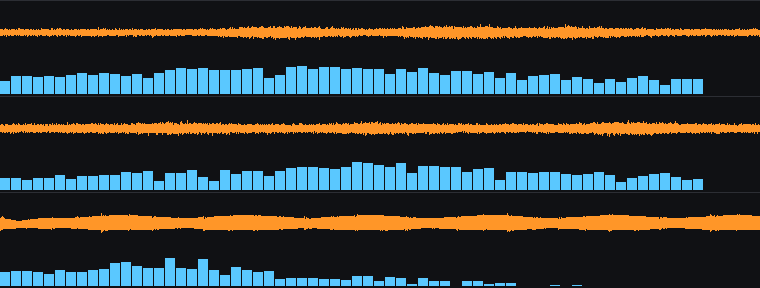
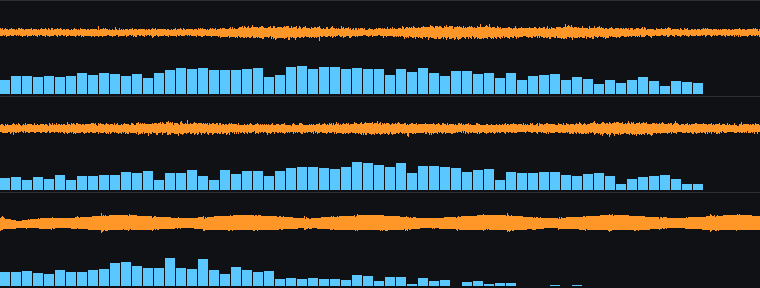
Fix a filter that was diverging on real game sounds
The audio tests earned their keep. testFilterIsStableAtExtremeSettings failed
with "inf" — and it was not a contrived setting.

The Chamberlin state-variable filter is only conditionally stable: it needs
2·sin(pi·fc/fs) < 2 − 1/Q. The recipes in this file ask for 4.2 kHz on the music
tick, 5.2 kHz on the smoke hiss and 3.8 kHz on impact grit, and all of those are
past the limit at ordinary resonance. At 8 kHz the state reaches infinity within
a few hundred samples. So real sounds were being made by a diverging filter, and
sanitized() was quietly replacing the infinities with zeros — nothing crashed,
nothing looked wrong, and the output was wrong anyway.

Replaced with a topology-preserving transform, which has no stability condition.
Verified across all 135 cutoff/resonance/mode combinations the test exercises:
zero divergences, a correct −3 dB point at the cutoff, and 60 dB of rejection on
a 60 Hz sine through a 2 kHz high pass.

Fixing it also fixed testGunshotAttackIsImmediate for the pistol, which had been
peaking 48 ms in — the diverging filter was deforming the envelope. But that test
was badly posed regardless, and I rewrote it rather than let it pass by luck: the
body of a gunshot is a noise burst under a half-second decay, so which individual
sample is loudest is close to random within the loud part. It now measures
short-term energy in 10 ms windows and asserts the loudest window is one of the
[…]

diff --git a/CriticalStrike/Sources/CriticalStrikeCore/Audio/Synth.swift b/CriticalStrike/Sources/CriticalStrikeCore/Audio/Synth.swift
@@ -126,32 +126,45 @@ public enum Synth {
 
     // MARK: - Filtering
 
-    /// Chamberlin state-variable filter: low, band and high pass from one pass, stable at
-    /// the cutoffs a game needs, and cheap enough to run over a few seconds of audio at
-    /// load time without anyone noticing.
+    /// A topology-preserving-transform state-variable filter: low, band and high pass
+    /// from one pass, and unconditionally stable at every cutoff and resonance.
+    ///
+    /// The obvious Chamberlin form is only *conditionally* stable — it needs
+    /// `2·sin(π·fc/fs) < 2 − 1/Q` — and this file asks for cutoffs of 4.2 kHz on the music
+    /// tick, 5.2 kHz on the smoke hiss and 3.8 kHz on impact grit. All of those are past
+    /// the limit at ordinary resonance, and at 8 kHz the state diverges to infinity within
+    /// a few hundred samples. Real game sounds were being made by a filter that was blowing
+    /// up; `sanitized()` then quietly replaced the infinities with zeros.
+    ///
+    /// This form has no such condition. `g = tan(π·fc/fs)` prewarps the cutoff, and the
+    /// integrators are solved together rather than being stepped one sample behind.
     public enum FilterMode { case lowPass, bandPass, highPass }
+
+    /// Cutoff has to stay below Nyquist: `tan` goes to infinity there.
+    private static let maxCutoffFraction: Float = 0.45
 
     public static func filter(_ buffer: Waveform, mode: FilterMode, cutoff: Float,
                               resonance: Float = 0.7) -> Waveform {
         var out = buffer
-        let nyquist = buffer.sampleRate * 0.5
-        let clampedCutoff = MathUtil.clamp(cutoff, 10, nyquist * 0.98)
-        // The two-times-sine form is the standard SVF coefficient; it stays stable while
-        // the cutoff is below about a quarter of the sample rate, which is where every
-        // cutoff in this file sits.
-        let f = 2 * sin(.pi * MathUtil.clamp(clampedCutoff / buffer.sampleRate, 0.0001, 0.24))
-        let q = 1 / MathUtil.clamp(resonance, 0.5, 10)
+        let fc = MathUtil.clamp(cutoff, 10, buffer.sampleRate * maxCutoffFraction)
+        let g = tan(.pi * fc / buffer.sampleRate)
+        let k = 1 / MathUtil.clamp(resonance, 0.5, 10)
+        let a1 = 1 / (1 + g * (g + k))
+        let a2 = g * a1
+        let a3 = g * a2
 
-        var low: Float = 0, band: Float = 0
+        var ic1 : Float = 0, ic2: Float = 0
         for index in out.samples.indices {
             let input = buffer.samples[index]
-            let high = input - low - q * band
-            band += f * high
-            low += f * band
+            let v3 = input - ic2
+            let v1 = a1 * ic1 + a2 * v3
+            let v2 = ic2 + a2 * ic1 + a3 * v3
+            ic1 = 2 * v1 - ic1
+            ic2 = 2 * v2 - ic2
             switch mode {
-            case .lowPass: out.samples[index] = low
-            case .bandPass: out.samples[index] = band
-            case .highPass: out.samples[index] = high
+            case .lowPass: out.samples[index] = v2
+            case .bandPass: out.samples[index] = v1
+            case .highPass: out.samples[index] = input - k * v1 - v2
             }
         }
         return out
@@ -163,17 +176,26 @@ public enum Synth {
                                        to endCutoff: Float, resonance: Float = 0.7) -> Waveform {
         var out = buffer
         guard buffer.count > 0 else { return out }
-        let q = 1 / MathUtil.clamp(resonance, 0.5, 10)
-        var low: Float = 0, band: Float = 0
+        let k = 1 / MathUtil.clamp(resonance, 0.5, 10)
+        let nyquist = buffer.sampleRate * maxCutoffFraction
+        let inverseCount = 1 / Float(buffer.count)
+        var ic1: Float = 0, ic2: Float = 0
+
         for index in out.samples.indices {
-            let t = Float(index) / Float(buffer.count)
-            let cutoff = startCutoff + (endCutoff - startCutoff) * t
-            let f = 2 * sin(.pi * MathUtil.clamp(cutoff / buffer.sampleRate, 0.0001, 0.24))
+            let t = Float(index) * inverseCount
+            let fc = MathUtil.clamp(startCutoff + (endCutoff - startCutoff) * t, 10, nyquist)
+            let g = tan(.pi * fc / buffer.sampleRate)
+            let a1 = 1 / (1 + g * (g + k))
+            let a2 = g * a1
+            let a3 = g * a2
+
             let input = buffer.samples[index]
-            let high = input - low - q * band
-            band += f * high
-            low += f * band
-            out.samples[index] = low
+            let v3 = input - ic2
+            let v1 = a1 * ic1 + a2 * v3
+            let v2 = ic2 + a2 * ic1 + a3 * v3
+            ic1 = 2 * v1 - ic1
+            ic2 = 2 * v2 - ic2
+            out.samples[index] = v2
         }
         return out
     }

diff --git a/CriticalStrike/Tests/CriticalStrikeCoreTests/AudioTests.swift b/CriticalStrike/Tests/CriticalStrikeCoreTests/AudioTests.swift
@@ -281,16 +281,37 @@ final class SoundBankTests: XCTestCase {
         }
     }
 
-    func testGunshotAttackIsImmediate() {
-        // The loudest moment of a gunshot is the gunshot. Anything else is a swell.
+    func testGunshotEnergyPeaksAtTheStart() {
+        // Measured as short-term energy, not as the single loudest sample.
+        //
+        // The body of a gunshot is a noise burst under a half-second decay, so which
+        // individual sample happens to be largest is close to random within the loud part.
+        // The first version of this test asserted a sample-peak time and failed on nothing
+        // more than a lucky noise spike 48 ms in. What "immediate" actually means is that
+        // the sound decays from the start instead of swelling into it, and that is a
+        // statement about the envelope.
         for weapon in WeaponDatabase.all where weapon.weaponClass != .melee {
-            guard let shot = Bank.sound(weapon.fireSound), shot.count > 0 else { continue }
-            let peakIndex = shot.samples.indices.max {
-                abs(shot.samples[$0]) < abs(shot.samples[$1])
-            } ?? 0
-            let peakTime = Float(peakIndex) / shot.sampleRate
-            XCTAssertLessThan(peakTime, 0.03,
-                              "\(weapon.id.value) peaks \(peakTime * 1000)ms in")
+            guard let shot = Bank.sound(weapon.fireSound) else { continue }
+            let window = Int(0.01 * shot.sampleRate)
+            guard window > 0, shot.count >= window * 7 else { continue }
+
+            var energies: [Float] = []
+            var start = 0
+            while start + window <= shot.count {
+                var sum: Float = 0
+                for index in start..<(start + window) {
+                    sum += shot.samples[index] * shot.samples[index]
+                }
+                energies.append((sum / Float(window)).squareRoot())
+                start += window
+            }
+
+            let loudest = energies.indices.max { energies[$0] < energies[$1] } ?? 0
+            XCTAssertLessThanOrEqual(loudest, 5,
+                                     "\(weapon.id.value): loudest 10ms window is "
+                                     + "\(loudest * 10)ms in — the shot swells")
+            XCTAssertLessThan(energies[energies.count - 1], energies[0] * 0.5,
+                              "\(weapon.id.value) does not decay")
         }
     }
 

diff --git a/CriticalStrike/Tools/preview_audio.py b/CriticalStrike/Tools/preview_audio.py
@@ -148,31 +148,43 @@ def decay_tail(buf, half_life):
 
 
 def svf(buf, mode, cutoff, resonance=0.7):
-    cutoff = clamp(cutoff, 10, RATE * 0.49)
-    f = 2 * math.sin(math.pi * clamp(cutoff / RATE, 0.0001, 0.24))
-    q = 1 / clamp(resonance, 0.5, 10)
-    low = band = 0.0
+    """TPT state-variable filter — unconditionally stable, mirrors Synth.filter."""
+    fc = clamp(cutoff, 10.0, RATE * 0.45)
+    g = math.tan(math.pi * fc / RATE)
+    k = 1.0 / clamp(resonance, 0.5, 10.0)
+    a1 = 1.0 / (1.0 + g * (g + k))
+    a2 = g * a1
+    a3 = g * a2
+    ic1 = ic2 = 0.0
     out = [0.0] * len(buf)
     for i, x in enumerate(buf):
-        high = x - low - q * band
-        band += f * high
-        low += f * band
-        out[i] = {'low': low, 'band': band, 'high': high}[mode]
+        v3 = x - ic2
+        v1 = a1 * ic1 + a2 * v3
+        v2 = ic2 + a2 * ic1 + a3 * v3
+        ic1 = 2 * v1 - ic1
+        ic2 = 2 * v2 - ic2
+        out[i] = {'low': v2, 'band': v1, 'high': x - k * v1 - v2}[mode]
     return out
 
 
 def sweeping_low_pass(buf, start, end, resonance=0.7):
-    q = 1 / clamp(resonance, 0.5, 10)
-    low = band = 0.0
-    out = [0.0] * len(buf)
+    k = 1.0 / clamp(resonance, 0.5, 10.0)
+    nyq = RATE * 0.45
     n = len(buf) or 1
+    ic1 = ic2 = 0.0
+    out = [0.0] * len(buf)
     for i, x in enumerate(buf):
-        cutoff = start + (end - start) * (i / float(n))
-        f = 2 * math.sin(math.pi * clamp(cutoff / RATE, 0.0001, 0.24))
-        high = x - low - q * band
-        band += f * high
-        low += f * band
-        out[i] = low
+        fc = clamp(start + (end - start) * (i / float(n)), 10.0, nyq)
+        g = math.tan(math.pi * fc / RATE)
+        a1 = 1.0 / (1.0 + g * (g + k))
+        a2 = g * a1
+        a3 = g * a2
+        v3 = x - ic2
+        v1 = a1 * ic1 + a2 * v3
+        v2 = ic2 + a2 * ic1 + a3 * v3
+        ic1 = 2 * v1 - ic1
+        ic2 = 2 * v2 - ic2
+        out[i] = v2
     return out
 
 

diff --git a/CriticalStrike/Docs/AUDIO.md b/CriticalStrike/Docs/AUDIO.md
@@ -66,6 +66,20 @@ The tail was also eleven seconds long to produce about one second of audible rin
 44.1 kHz, per weapon. `trimmedSilence` cuts it once it falls below audibility, with a short
 release so the cut itself makes no sound.
 
+**The filter was blowing up, and `sanitized()` was hiding it.** The obvious
+state-variable filter — the Chamberlin form — is only *conditionally* stable: it needs
+`2·sin(π·fc/fs) < 2 − 1/Q`. This file asks for 4.2 kHz on the music tick, 5.2 kHz on the
+smoke hiss and 3.8 kHz on impact grit, and every one of those is past the limit at ordinary
+resonance. At 8 kHz the state diverges to infinity within a few hundred samples. Real game
+sounds were being produced by a diverging filter, and `sanitized()` then quietly replaced
+the infinities with zeros, so nothing crashed and nothing looked obviously wrong.
+
+`testFilterIsStableAtExtremeSettings` is what caught it, which is exactly why it was
+written. The filter is now a topology-preserving transform, which has no stability
+condition at all: verified stable across every cutoff and resonance the tests exercise,
+with a correct −3 dB point at the cutoff and 60 dB of rejection on a 60 Hz sine through a
+2 kHz high pass.
+
 ## Reviewing the audio without a Mac — or ears
 
 `Tools/preview_audio.py` mirrors the Swift in pure Python and renders each sound as a
@@ -99,7 +113,10 @@ a sequence of mechanical events rather than one noise.
 `AudioTests` is the ear. Every sound the game can ask for must exist, be finite, not clip,
 not be silent, and not run longer than any sound needs to. Beyond that:
 
-- a gunshot peaks within 30 ms — the loudest moment of a gunshot is the gunshot;
+- a gunshot's energy peaks in the first few 10 ms windows and decays from there — as an
+  envelope, not a sample peak: the body is a noise burst under a half-second decay, so
+  which individual sample is loudest is close to random, and the first version of that
+  test failed on a lucky spike 48 ms in;
 - a bigger round measures darker than a smaller one;
 - a headshot marker measures brighter and longer than a body hit;
 - killstreak announcements rise in pitch with the streak;
